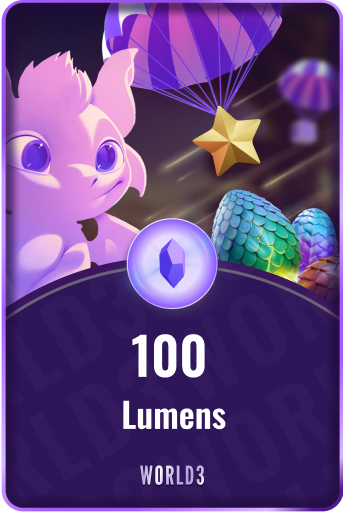
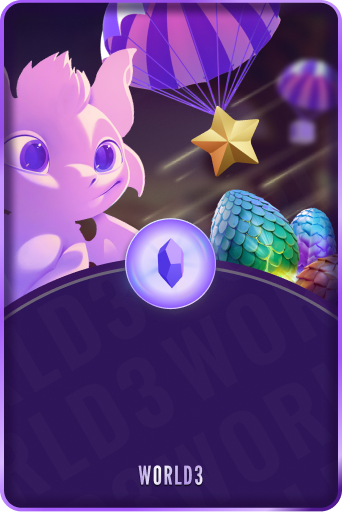
add: num_card

diff --git a/src/pages/CardGame/index.tsx b/src/pages/CardGame/index.tsx
@@ -9,31 +9,12 @@ import lootbox_card_lumens from "@/assets/lootbox/lootbox_card_lumens.png";
 import lootbox_card_none from "@/assets/lootbox/lootbox_card_none.png";
 import lootbox_card_usdt from "@/assets/lootbox/lootbox_card_usdt.png";
 
+import Timer from "./Timer";
+
 export default function CardGame() {
   const [flipped, setFlipped] = useState(false);
-  const [CardsList, setCardsList] = useState(
-    Array(10).fill(null).map((_, index) => {
-      return {
-        type: "LUMENS", // type 属性
-        amount: 0, // val 属性,
-        img: ""
-      };
-    })
-  );
-  const [tickets, settickets] = useState([
-    {
-      name: "Base Tickets",
-      count: 18,
-      src: btn_basetickets,
-      chain: "BASE"
-    },
-    {
-      name: "Sui Tickets",
-      count: 10,
-      src: btn_basetickets,
-      chain: "sui"
-    }
-  ]);
+  const [CardsList, setCardsList] = useState([]) as any;
+  const [tickets, settickets] = useState([]) as any;
   const hanclick = () => {
     // console.log('res>>>', res);
     const mockData = [
@@ -46,7 +27,7 @@ export default function CardGame() {
         amount: 6
       },
       {
-        type: "POINTS",
+        type: "USDT",
         amount: 36
       },
       {
@@ -54,15 +35,15 @@ export default function CardGame() {
         amount: 35
       },
       {
-        type: "LUMENS",
+        type: "USDT",
         amount: 6
       },
       {
-        type: "LUMENS",
+        type: "USDT",
         amount: 6
       },
       {
-        type: "POINTS",
+        type: "USDT",
         amount: 25
       },
       {
@@ -74,11 +55,11 @@ export default function CardGame() {
         amount: 22
       },
       {
-        type: "POINTS",
+        type: "USDT",
         amount: 40
       }
     ];
-    const resultData = mockData.map((item: any) => {
+    const resultData = mockData.slice(0, CardsList.length).map((item: any) => {
       return {
         ...item,
         img:
@@ -87,28 +68,56 @@ export default function CardGame() {
             : item.type === "USDT" ? lootbox_card_usdt : lootbox_card_none
       };
     });
+    console.log("resultData>>>", resultData);
     setCardsList(resultData);
     setFlipped(!flipped);
   };
+  useEffect(() => {
+    const mockticketsData = [
+      {
+        name: "Base Tickets",
+        count: 8,
+        src: btn_basetickets,
+        chain: "BASE"
+      },
+      {
+        name: "Sui Tickets",
+        count: 10,
+        src: btn_basetickets,
+        chain: "sui"
+      }
+    ];
+    const count = mockticketsData[0].count;
+    const mockCardsData = Array(count > 10 ? 10 : count)
+      .fill(null)
+      .map((_, index) => {
+        return {
+          type: "LUMENS", // type 属性
+          amount: 0, // val 属性,
+          img: ""
+        };
+      });
+    settickets(mockticketsData);
+    setCardsList(mockCardsData);
+  }, []);
   return (
     <div
-      className=" px-4 relative  bg-cover bg-center bg-no-repeat py-8 font-Oswald  max-h-full overflow-scroll"
+      className=" px-4 relative  bg-cover bg-center bg-no-repeat py-4 font-Oswald  max-h-full overflow-scroll"
       style={{
         backgroundImage: "url(./lootboxdetailSecond_bg.png)"
       }}
     >
       <div
         className={cn(
-          "flex  flex-wrap gap-x-6 gap-y-10",
-          "max-h-[567px] my-4",
+          "flex flex-wrap gap-x-6 gap-y-10 max-w-[1092px] mx-auto my-4",
           CardsList.length % 10 === 0 ? "justify-between" : "justify-start"
         )}
       >
-        {CardsList.slice(0, 10).map((item: any, index: number) =>
+        {CardsList.map((item: any, index: number) =>
           <div
             key={index}
             className={cn(
-              `relative`,
+              `relative transform duration-500`,
               "hover:cursor-pointer",
               "hover:scale-110"
             )}
@@ -127,9 +136,7 @@ export default function CardGame() {
                 backfaceVisibility: "hidden"
               }}
             />
-            <img
-              src={item.img}
-              alt=""
+            <div
               className={cn(
                 "absolute left-0 top-0 aspect-[0.69] w-[122px] select-none duration-1000  lg:w-[172px]",
                 `transition-transform ${flipped
@@ -139,15 +146,30 @@ export default function CardGame() {
               style={{
                 backfaceVisibility: "hidden"
               }}
-            />
+            >
+              <img src={item.img} alt="" />
+              {item.type &&
+                <div
+                  className={cn(
+                    "absolute left-0 bottom-[36px] markBorderR flex flex-col items-center w-full"
+                  )}
+                >
+                  <span className="text-[26px] font-semibold">
+                    {item.amount}
+                  </span>
+                  <span className="text-[17px] font-semibold">
+                    {item.type}
+                  </span>
+                </div>}
+            </div>
           </div>
         )}
       </div>
-      <div className="btn-container  flex items-center">
+      <div className="btn-container  flex items-center max-w-[1092px] mx-auto">
         {tickets.slice(0, 1).map((ticket: any, index: number) =>
           <div
             key={index}
-            className=" flex aspect-[3.45] w-[304px] items-center justify-around bg-cover bg-center bg-no-repeat px-[10px] hover:cursor-pointer"
+            className="flex aspect-[3.45] w-[304px] items-center bg-cover bg-center bg-no-repeat px-[10px] hover:cursor-pointer"
             style={{
               backgroundImage:
                 ticket.chain === "sui"
@@ -160,13 +182,14 @@ export default function CardGame() {
               void hanclick();
             }}
           >
-            <img src={ticket.src} alt="" className=" " />
+            <img src={ticket.src} alt="" className="mr-3" />
             <span className=" text-[24px] font-semibold select-none">
               {ticket.name} X {ticket.count}
             </span>
           </div>
         )}
       </div>
+      <Timer />
     </div>
   );
 }

diff --git a/src/pages/CardGame/Timer.tsx b/src/pages/CardGame/Timer.tsx
@@ -1,0 +1,57 @@
+/*
+ * @Description: 
+ * @Author: didadida262
+ * @Date: 2024-12-04 10:49:04
+ * @LastEditors: didadida262
+ * @LastEditTime: 2024-12-04 11:19:32
+ */
+import { useEffect, useState } from "react";
+
+import NumCardItem from "./NumCardItem";
+
+export default function Timer() {
+  const [time, settime] = useState({
+    year: "",
+    mouth: "",
+    day: ""
+  }) as any;
+  const getNowTime = () => {
+    const date = new Date();
+    const year = date.getFullYear(); // 获取年份
+    const mouth = ("0" + (date.getMonth() + 1)).slice(-2); // 获取月份，转为两位数
+    const day = ("0" + date.getDate()).slice(-2); // 获取日，转为两位数
+    const res = {
+      ...time,
+      year: year,
+      mouth: mouth,
+      day: day
+    };
+    settime(res);
+    console.log("res>>>", res);
+  };
+  useEffect(() => {
+    getNowTime();
+  }, []);
+  return (
+    <div className=" relative mx-auto flex w-full items-start justify-between md:w-[650px]">
+      <span className=" absolute left-[-60px] top-[74px] hidden h-[22px] w-[45px] text-[15px] font-semibold md:block">
+        Ends in
+      </span>
+      <NumCardItem time={String(time.year)} title="YEAR" />
+      <NumCardItem time={time.mouth} title="MOUTH" />
+      <NumCardItem time={time.day} title="DAY" />
+      {/* {data.length &&
+      data.map((item: any, index: number) => (
+        <>
+          <TimeItem name={item.name} value={item.value} />
+          {index !== 3 && (
+            <div className=" flex h-[51.24px] w-[10px] flex-col items-center  justify-center text-[30px] font-semibold leading-[40px] md:h-[98px] md:w-[30px] md:text-[70px] md:leading-[70px]">
+              <div className="mb-[6px] aspect-[1] w-[4px] rounded-full bg-white md:w-2"></div>
+              <div className=" aspect-[1] w-[4px] rounded-full bg-white md:w-2"></div>
+            </div>
+          )}
+        </>
+      ))} */}
+    </div>
+  );
+}

diff --git a/src/pages/CardGame/NumCardItem.tsx b/src/pages/CardGame/NumCardItem.tsx
@@ -1,0 +1,29 @@
+import cn from "classnames";
+
+interface IProps {
+  time: string;
+  title: string;
+}
+export default function NumCardItem(props: IProps) {
+  const { time, title } = props;
+  return (
+    <div className="markBorderR flex flex-col gap-y-[10px] items-center">
+      <div className="num flex items-center text-7xl font-semibold">
+        {time.split("").map((item: string, index: number) =>
+          <div
+            key={index}
+            className={cn(
+              "flex aspect-[0.683] w-[35px] items-center justify-center rounded-[4px] border-[1px] border-solid border-[#FFFFFF1A] bg-[#2C212A] text-[30px] font-semibold leading-[40px] md:w-[67px] md:rounded-[8.4px] md:text-[70px] md:leading-[70px]",
+              index !== time.split("").length - 1 ? "mr-[6px]" : ""
+            )}
+          >
+            {item}
+          </div>
+        )}
+      </div>
+      <span className="text-[15px] font-semibold">
+        {title}
+      </span>
+    </div>
+  );
+}
